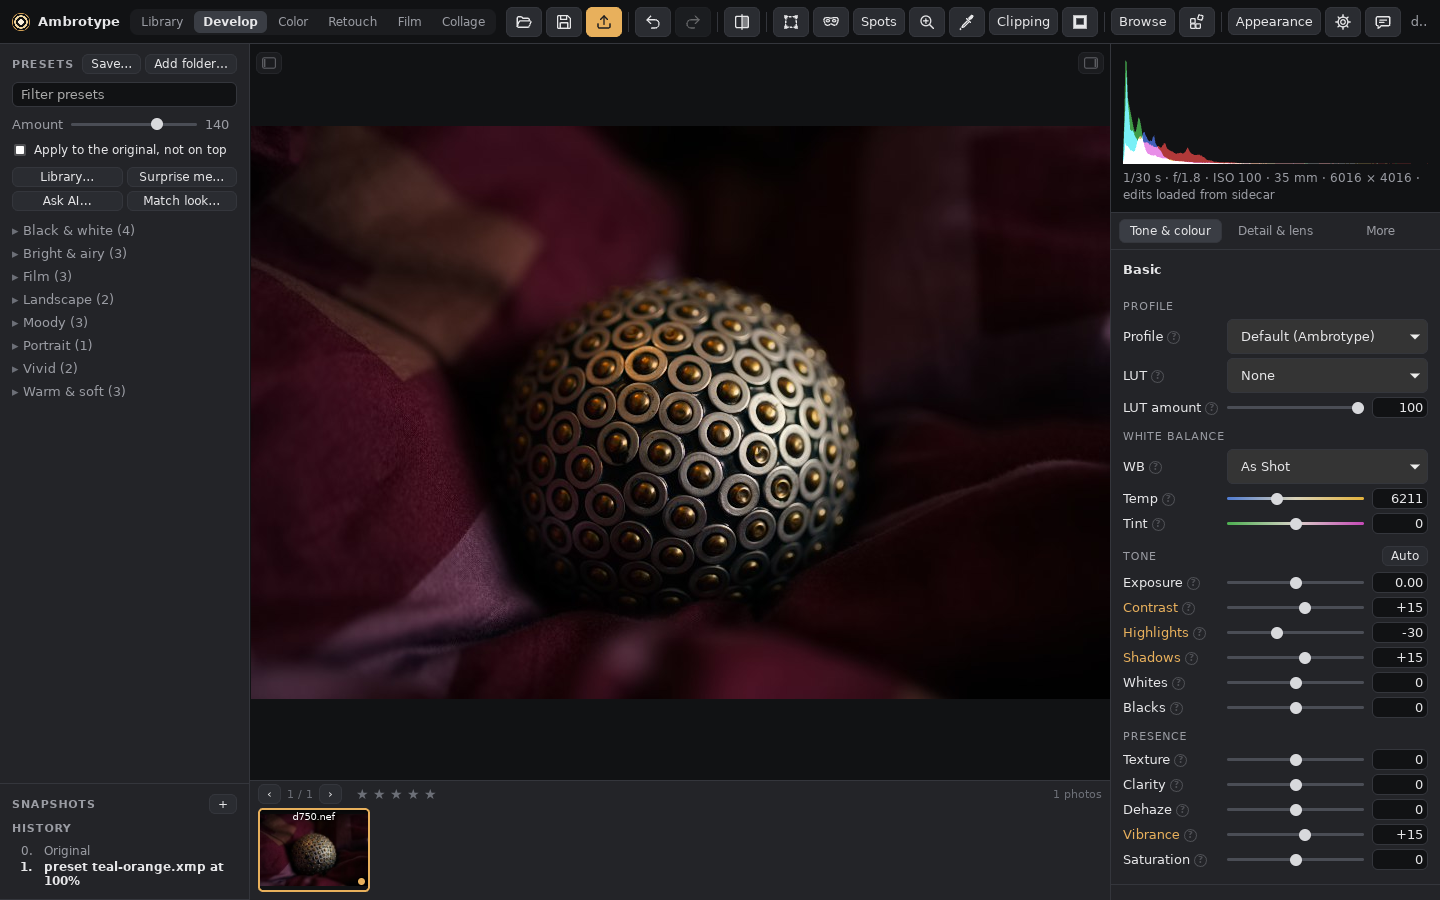
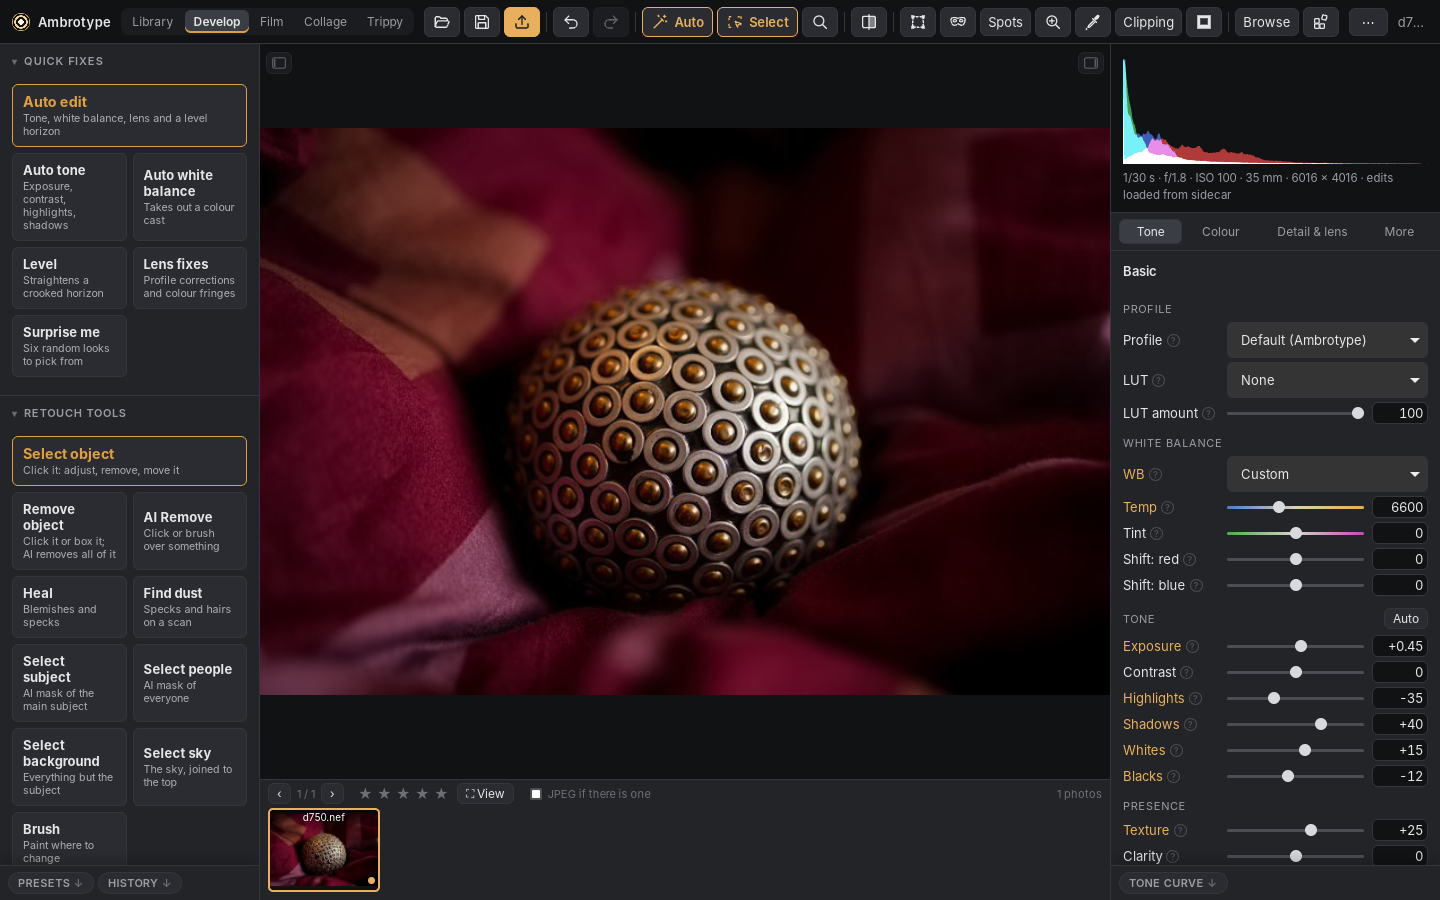
editor: side columns scroll as one, with sticky headings and a foot strip
History had slipped below Develop's tool tiles, out of sight, and the
lines to drag between blocks were invisible until hovered. Now a column
scrolls as one: a block's heading stays at the top while you're in it
and folds the block when clicked (every block, remembered), and a strip
at the column's foot names the blocks further down (History, Presets,
...; four by name, then "+N"), a click scrolls there. The drag lines
are gone. A smoke step checks History is named and reachable.

README screenshots retaken: the editor and the eight layout and theme
pairs, on the same CC0 sample photo.

Claude-Session: https://claude.ai/code/session_01RRHK1b1iPhduh9Qc2Hzt85

diff --git a/crates/amb-gui/ui/looks/columns.js b/crates/amb-gui/ui/looks/columns.js
@@ -114,53 +114,85 @@ function applySideCollapse() {
   addColumnGrips(shown);
 }
 
-// Section heights in a column, set by dragging the line between two
-// sections; remembered on this computer. The presets list fills what's left.
-const sectionHeights = (() => {
-  return store.get("section-heights") ?? {};
-})();
+// One scroll per column. A block's heading sticks at the top while you're in
+// it and folds the block when clicked (remembered); the blocks below the
+// fold are named in a strip at the column's foot, a click scrolls there.
+const columnWatch = new WeakMap();
 
-function addSectionDividers(col) {
-  const sections = [...col.children].filter((el) => el.classList.contains("side-section"));
-  for (const s of sections) {
-    const h = sectionHeights[s.id];
-    s.style.height = h && !s.classList.contains("presets-block") ? `${h}px` : "";
-    s.classList.toggle("sized", Boolean(s.style.height));
+function wireColumnBlocks(col) {
+  for (const s of col.querySelectorAll(":scope > .side-section")) foldableBlock(s);
+  const strip = Object.assign(document.createElement("nav"), { className: "col-strip", ariaLabel: "Further down this column" });
+  col.append(strip);
+  let w = columnWatch.get(col);
+  if (!w) {
+    let queued = false;
+    const update = () => {
+      if (queued) return;
+      queued = true;
+      requestAnimationFrame(() => {
+        queued = false;
+        updateColumnStrip(col);
+      });
+    };
+    w = { update, sizes: new ResizeObserver(update) };
+    columnWatch.set(col, w);
+    col.addEventListener("scroll", update, { passive: true });
   }
-  for (let i = 1; i < sections.length; i++) {
-    const above = sections[i - 1];
-    const below = sections[i];
-    const grip = Object.assign(document.createElement("div"), { className: "section-resizer", title: "Drag to resize; double-click to reset" });
-    below.before(grip);
-    // Resize the section that doesn't fill the spare height.
-    const target = below.classList.contains("presets-block") ? above : below;
-    const sign = target === above ? 1 : -1;
-    grip.addEventListener("pointerdown", (e) => {
-      if (document.body.classList.contains("editing")) return;
-      e.preventDefault();
-      grip.setPointerCapture(e.pointerId);
-      const y0 = e.clientY;
-      const h0 = target.getBoundingClientRect().height;
-      const move = (ev) => {
-        const h = Math.max(40, Math.round(h0 + sign * (ev.clientY - y0)));
-        target.style.height = `${h}px`;
-        target.classList.add("sized");
-        sectionHeights[target.id] = h;
-      };
-      const up = () => {
-        grip.removeEventListener("pointermove", move);
-        store.set("section-heights", sectionHeights);
-      };
-      grip.addEventListener("pointermove", move);
-      grip.addEventListener("pointerup", up, { once: true });
-    });
-    grip.addEventListener("dblclick", () => {
-      delete sectionHeights[target.id];
-      target.style.height = "";
-      target.classList.remove("sized");
-      store.set("section-heights", sectionHeights);
-    });
+  w.sizes.disconnect();
+  w.sizes.observe(col);
+  for (const el of columnBlocks(col)) w.sizes.observe(el);
+  w.update();
+}
+
+// A column's blocks: its sections and panels.
+const columnBlocks = (col) => [...col.children].filter((el) => el.matches(".side-section, details.panel"));
+const blockName = (el) => el.dataset.label ?? el.querySelector(":scope > .side-head h2, :scope > summary > span")?.textContent.trim() ?? "";
+
+function foldableBlock(s) {
+  const h = s.querySelector(":scope > .side-head h2");
+  if (!h || !s.id) return;
+  const key = `amb.fold.${s.id.replace(/^block-/, "")}`;
+  if (!h.querySelector(".fold-head")) {
+    const head = Object.assign(document.createElement("button"), { type: "button", className: "fold-head", title: "Fold or unfold" });
+    head.append(...h.childNodes);
+    h.replaceChildren(head);
+    head.addEventListener("click", () => foldBlock(s, !s.classList.contains("folded")));
   }
+  foldBlock(s, store.text(key) === "1", false);
+}
+
+function foldBlock(s, folded, remember = true) {
+  s.classList.toggle("folded", folded);
+  s.querySelector(".fold-head")?.setAttribute("aria-expanded", String(!folded));
+  if (remember) store.setText(`amb.fold.${s.id.replace(/^block-/, "")}`, folded ? "1" : "0");
+}
+
+function updateColumnStrip(col) {
+  const strip = col.querySelector(":scope > .col-strip");
+  if (!strip) return;
+  const tabs = col.querySelector(":scope > .column-tabs");
+  col.style.setProperty("--col-tabs-h", `${tabs?.offsetHeight ?? 0}px`);
+  const box = col.getBoundingClientRect();
+  const foot = box.bottom - (strip.childElementCount ? strip.offsetHeight : 0);
+  const below = columnBlocks(col).filter((el) => el.offsetParent && el.getBoundingClientRect().top >= foot - 8);
+  const names = below.map(blockName).filter(Boolean);
+  if (strip.dataset.names === names.join("\n")) return;
+  strip.dataset.names = names.join("\n");
+  // A few by name, then how many more (a click goes to the next of them).
+  const named = below.filter((el) => blockName(el));
+  const shown = named.length > 5 ? named.slice(0, 4) : named;
+  const chips = shown.map((el) => [el, blockName(el)]);
+  if (named.length > shown.length) chips.push([named[shown.length], `+${named.length - shown.length}`]);
+  strip.replaceChildren(...chips.map(([el, text]) => {
+    const b = Object.assign(document.createElement("button"), { type: "button", className: "col-chip", textContent: text, title: `Scroll down to ${blockName(el)}` });
+    b.addEventListener("click", () => {
+      if (el.classList.contains("folded")) foldBlock(el, false);
+      if (el.matches("details")) el.open = true;
+      const top = col.scrollTop + el.getBoundingClientRect().top - col.getBoundingClientRect().top - (tabs?.offsetHeight ?? 0);
+      col.scrollTo({ top, behavior: "smooth" });
+    });
+    return b;
+  }));
 }
 
 function toggleColumn(side) {

diff --git a/crates/amb-gui/ui/style.css b/crates/amb-gui/ui/style.css
@@ -57,10 +57,10 @@ button.primary:hover:not(:disabled) { background: var(--accent); filter: brightn
 .camsim-controls label { display: grid; grid-template-columns: 7em 1fr 5.5em; align-items: center; gap: 6px; }
 .camsim-controls label.inline-check { display: flex; }
 /* Tool blocks: a task's own tools as big tiles, a name and what it does. */
-.tool-block .fold-head { all: unset; cursor: pointer; display: inline-flex; align-items: center; gap: 6px; }
-.tool-block .fold-head::before { content: "▾"; font-size: 10px; opacity: .6; }
-.tool-block.folded .fold-head::before { content: "▸"; }
-.tool-block.folded .tool-tiles { display: none; }
+.side-section .fold-head { all: unset; cursor: pointer; display: inline-flex; align-items: center; gap: 6px; }
+.side-section .fold-head::before { content: "▾"; font-size: 10px; opacity: .6; }
+.side-section.folded .fold-head::before { content: "▸"; }
+.side-section.folded > :not(.side-head:first-child) { display: none; }
 .tool-tiles { display: grid; grid-template-columns: repeat(2, minmax(0, 1fr)); grid-auto-rows: auto; gap: 6px; padding: 4px 0 8px; }
 /* Block text, not a flex column: WebKit on macOS measured a flex <button>
    a line short, so the last line of a hint was cut off. */
@@ -137,7 +137,7 @@ input[type=search], input[type=number], select {
 .right { border-left: 1px solid var(--line); grid-column: 3; grid-row: 1 / 3; }
 .side-section { padding: 10px 12px; border-bottom: 1px solid var(--line); display: flex; flex-direction: column; gap: 8px; min-height: 0; }
 /* Presets fill the spare height of their column (and scroll inside it). */
-.column > .presets-block { flex: 1 0 220px; overflow-y: auto; }
+.column > .presets-block { flex: 1 0 auto; }
 .side-head { display: flex; flex-wrap: wrap; align-items: center; justify-content: space-between; gap: 4px; }
 .side-actions button { white-space: nowrap; }
 .amount { display: grid; grid-template-columns: auto minmax(0, 1fr) 32px; align-items: center; gap: 8px; color: var(--muted); }
@@ -153,7 +153,6 @@ input[type=search], input[type=number], select {
 .preset-star.on { color: var(--accent); }
 .preset { display: block; width: 100%; text-align: left; background: none; border: 0; padding: 3px 4px 3px 16px; border-radius: 4px; color: var(--text); }
 .preset:hover { background: var(--panel-2); }
-.history { max-height: 40%; }
 .snapshot-list { list-style: none; margin: 0; padding: 0; overflow-y: auto; max-height: 120px; flex-shrink: 0; font-size: 12px; }
 .snapshot-list:empty { display: none; }
 .snapshot-list li { display: flex; align-items: center; gap: 2px; border-radius: 3px; color: var(--muted); }
@@ -163,7 +162,7 @@ input[type=search], input[type=number], select {
 .snapshot-list .snap-act { visibility: hidden; padding: 0 4px; border: 0; background: none; color: var(--muted); font-size: 12px; line-height: 16px; }
 .snapshot-list li:hover .snap-act, .snapshot-list .snap-act:focus { visibility: visible; }
 .snapshot-list .snap-act:hover { color: var(--text); }
-.history-list { margin: 0; padding-left: 28px; overflow-y: auto; color: var(--muted); font-size: 12px; }
+.history-list { margin: 0; padding-left: 28px; max-height: 24em; overflow-y: auto; color: var(--muted); font-size: 12px; }
 .history-list li { padding: 1px 4px; border-radius: 3px; cursor: pointer; }
 .history-list li:hover { background: var(--tab-active); color: var(--text); }
 .history-list li.current { color: var(--text); font-weight: 600; cursor: default; }
@@ -1111,9 +1110,17 @@ button.tool-icon.active { color: var(--accent); }
 .fold.left { left: 6px; border-radius: var(--radius); }
 .fold.right { right: 6px; border-radius: var(--radius); }
 .fold[hidden] { display: none; }
-.section-resizer { flex: none; height: 6px; margin: -3px 0; position: relative; z-index: 2; cursor: row-resize; }
-.section-resizer:hover, .section-resizer:active { background: var(--accent); opacity: .5; }
-.side-section.sized { flex: none; overflow-y: auto; }
+/* One scroll per column: a block's heading sticks at the top while you're in
+   it (under the column's tabs), and the blocks further down are named in a
+   strip at the foot (columns.js). */
+.column > .side-section > .side-head:first-child { position: sticky; top: var(--col-tabs-h, 0px); z-index: 3; margin: -10px -12px 0; padding: 10px 12px 4px; background: var(--panel); }
+.column > details.panel > summary { position: sticky; top: var(--col-tabs-h, 0px); z-index: 3; background: var(--panel); }
+.col-strip { position: sticky; bottom: 0; z-index: 4; margin-top: auto; display: flex; flex-wrap: wrap; gap: 4px; padding: 6px 8px; background: var(--panel); border-top: 1px solid var(--line); box-shadow: 0 -6px 12px rgba(0, 0, 0, .18); }
+.col-strip:empty { display: none; }
+.col-chip { padding: 3px 9px; border: 1px solid var(--line); border-radius: 999px; background: var(--panel-2); color: var(--muted); font-size: 11px; font-weight: 600; letter-spacing: .04em; text-transform: uppercase; }
+.col-chip::after { content: " ↓"; opacity: .6; }
+.col-chip:hover { color: var(--text); border-color: var(--accent); }
+body.editing .col-strip { display: none; }
 /* The presets block's tools: a tidy grid of small buttons. */
 .preset-tools { display: grid; grid-template-columns: 1fr 1fr; gap: 4px; }
 .preset-tools button { width: 100%; }

diff --git a/crates/amb-gui/tests/ui/smoke.js b/crates/amb-gui/tests/ui/smoke.js
@@ -60,7 +60,7 @@ await t.step("Auto edit: the big button edits the whole photo, as one undo step"
 
 await t.step("tabs: Develop has Quick fixes and the Retouch tools, a Colour tab, and folds; no Color or Retouch tab", async () => {
   await switchTask("develop");
-  for (const name of ["quick", "retouch"]) if ($(`block-${name}`).classList.contains("folded")) foldToolBlock(name, false);
+  for (const name of ["quick", "retouch"]) if ($(`block-${name}`).classList.contains("folded")) foldBlock($(`block-${name}`), false);
   await t.until("Quick fixes and Retouch tools", () => t.visible("#block-quick") && t.visible("#block-retouch"));
   t.expect(document.body.dataset.task === "develop", `accent ${document.body.dataset.task}`);
   t.expect(!TASKS.some((x) => ["color", "retouch"].includes(x.id)) && TASKS.map((x) => x.id).slice(0, 4).join() === "library,develop,film,collage", TASKS.map((x) => x.id).join());
@@ -68,6 +68,21 @@ await t.step("tabs: Develop has Quick fixes and the Retouch tools, a Colour tab,
   $("block-retouch").querySelector(".fold-head").click();
   t.expect(!t.visible("#tools-retouch") && localStorage.getItem("amb.fold.retouch") === "1", "folded");
   $("block-retouch").querySelector(".fold-head").click();
+  // History sits below the tool blocks: the column's foot names it, and a
+  // click scrolls to it.
+  const col = $("block-history").parentElement;
+  col.scrollTop = 0;
+  const chip = () => [...col.querySelectorAll(".col-strip .col-chip")].find((c) => c.textContent === "History");
+  await t.until("History named at the column's foot", () => chip());
+  chip().click();
+  const inView = () => {
+    const h = $("block-history").getBoundingClientRect();
+    const c = col.getBoundingClientRect();
+    return h.top >= c.top - 1 && h.top < c.bottom - 40;
+  };
+  await t.until("History scrolled into view", inView);
+  await t.until("no longer named below", () => !chip());
+  col.scrollTop = 0;
   t.expect(t.visible("#tools-retouch"), "unfolded");
   const tiles = [...document.querySelectorAll("#tools-retouch .tool-tile")].map((b) => b.dataset.tool);
   t.expect(["select", "object", "remove", "subject", "people", "background", "sky", "dust"].every((x) => tiles.includes(x)), tiles.join(", "));

diff --git a/crates/amb-gui/ui/tools/toolblocks.js b/crates/amb-gui/ui/tools/toolblocks.js
@@ -65,28 +65,7 @@ const TOOL_BLOCKS = {
   ],
 };
 
-// A tool block folds to its heading (a click on it), remembered per block,
-// so Develop's left column can hold Quick fixes and the Retouch tools.
-function foldToolBlock(name, folded) {
-  const block = $(`block-${name}`);
-  if (!block) return;
-  block.classList.toggle("folded", folded);
-  block.querySelector(".fold-head")?.setAttribute("aria-expanded", String(!folded));
-  store.setText(`amb.fold.${name}`, folded ? "1" : "0");
-}
-
 function wireToolBlocks() {
-  for (const name of ["quick", "retouch"]) {
-    const h = $(`block-${name}`)?.querySelector(".side-head h2");
-    if (!h) continue;
-    const head = Object.assign(document.createElement("button"), { type: "button", className: "fold-head", title: "Fold or unfold" });
-    head.append(...h.childNodes);
-    h.replaceChildren(head);
-    head.addEventListener("click", () => foldToolBlock(name, !$(`block-${name}`).classList.contains("folded")));
-    let folded = false;
-    folded = store.text(`amb.fold.${name}`) === "1";
-    foldToolBlock(name, folded);
-  }
   for (const [name, tools] of Object.entries(TOOL_BLOCKS)) {
     const box = $(`tools-${name}`);
     if (!box) continue;

diff --git a/crates/amb-gui/ui/core/tasks.js b/crates/amb-gui/ui/core/tasks.js
@@ -65,7 +65,7 @@ async function runTaskTool(tool) {
 function renderTaskTools() {
   const t = TASKS.find((x) => x.id === currentTask());
   const tools = t?.tools ?? [];
-  $("tools-title").textContent = t?.label ? `${t.label} tools` : "Tools";
+  ($("tools-title").querySelector(".fold-head") ?? $("tools-title")).textContent = t?.label ? `${t.label} tools` : "Tools";
   $("tools-task").replaceChildren(...tools.map((tool, i) => {
     const b = Object.assign(document.createElement("button"), { type: "button", className: `tool-tile${tool.big ? " big" : ""}`, title: tool.hint ?? "" });
     b.dataset.tool = String(i);

diff --git a/crates/amb-gui/ui/index.html b/crates/amb-gui/ui/index.html
@@ -109,7 +109,7 @@
         <div class="side-head"><h2 id="tools-title">Tools</h2></div>
         <div id="tools-task" class="tool-tiles"></div>
       </section>
-      <section class="side-section history" id="block-history">
+      <section class="side-section history" id="block-history" data-label="History">
         <div class="side-head">
           <h2>Snapshots</h2>
           <span class="side-actions"><button type="button" id="snapshot-add" class="small" title="Keep the edit as it is now under a name, to come back to (kept in the photo's .xmp)" disabled>+</button></span>

diff --git a/crates/amb-gui/ui/looks/layout.js b/crates/amb-gui/ui/looks/layout.js
@@ -113,7 +113,7 @@ function applyLayout(layout) {
   for (const side of ["left", "right"]) if (widths[side] && mine[side]) widths[side] = mine[side];
   ui.sideWidths = widths;
   applySideCollapse();
-  for (const side of ["left", "right"]) addSectionDividers($(`col-${side}`));
+  for (const side of ["left", "right"]) wireColumnBlocks($(`col-${side}`));
 
   // The crop panel goes to the top of the column with the most panels.
   const host = ["left", "right"]

diff --git a/docs/FEATURES.md b/docs/FEATURES.md
@@ -11,7 +11,7 @@ Ctrl is ⌘ on a Mac. "Right-click" means on the photo, or on a thumbnail in the
 - **I'm new to editing** → the empty window's **Try a sample photo** (a nine-step edit to step through in History) and **Watch an edit** (a cursor replays it). On your own photo: Help → **Watch an edit on this photo** (Auto edit's changes made one slider at a time, each a History step). Help → **Learn** (F1) has short lessons, Help → **Photography basics** (Shift+F1) explains exposure, tones and colour on your own photo, and every setting has a **?** to hover or click.
 - **Learn what shutter speed, aperture, ISO and focal length do** → Help → **Camera simulator**: change them on a drawn scene and see the blur, depth of field, grain and zoom, with a line on what each did; **Auto exposure** sets the shutter.
 - **Open a photo or a folder** → **Open a photo** (Ctrl+O), **Open a folder** (Ctrl+Shift+O), or drop it on the window. Raws (NEF, CR2/CR3, ARW, RAF, DNG, …), JPEG, PNG, TIFF and WebP.
-- **Switch between library and editing** → **Library Grid** (G), or the task bar at the top: **Library**, **Develop**, **Film**, **Collage**, **Trippy** (Ctrl+Alt+1–5). Develop opens on **Quick fixes** and the **Retouch tools** (a click on a heading folds it), with its panels in four tabs on the right: Tone, **Colour** (grading wheels and mixer), Detail & lens, More. Collage opens the collage maker.
+- **Switch between library and editing** → **Library Grid** (G), or the task bar at the top: **Library**, **Develop**, **Film**, **Collage**, **Trippy** (Ctrl+Alt+1–5). Develop opens on **Quick fixes** and the **Retouch tools**, with Presets and History below them (a click on any heading folds it; the column's foot names what's further down, a click goes there), with its panels in four tabs on the right: Tone, **Colour** (grading wheels and mixer), Detail & lens, More. Collage opens the collage maker.
 - **Find a command or setting I can't see** → **Search Everything** (Ctrl+K, or the magnifier in the toolbar): type its name, or a setting and a number ("exposure 0.7").
 - **See everything the app can do** → Help → **What Ambrotype Can Do** (this list, with a filter).
 - **Tips, or no tips** → a tip's **Don't show tips** (or **Not now** three times in a row) turns them off; **Settings** (Ctrl+,) → General: Tips while waiting, Tips in menus and empty boxes (both on) turns them on again.

diff --git a/docs/WHATS-NEXT.md b/docs/WHATS-NEXT.md
@@ -31,6 +31,7 @@ A short running list, kept up to date as work lands. Newest decisions first. The
 
 ## Recently done
 
+- 2026-11-10: side columns scroll as one: each block's heading stays at the top while you're in it and folds the block when clicked, and the column's foot names the blocks further down (History, Presets, …), a click goes there. The drag lines between blocks are gone; History had slipped out of sight below Develop's tool tiles. README screenshots retaken
 - 2026-11-10: rotate and flip a photo: **Rotate left** (Ctrl+[), **Rotate right** (Ctrl+]) and **Flip horizontal** in the Photo menu, Ctrl+K or the keys, for the open photo, the library's selection or the photo in the full-screen viewer; `amb tag --rotate left|right|180 --flip horizontal`. Written where Lightroom keeps it (`tiff:Orientation` in the sidecar); crops, masks and spots stay put on the photo, so they turn with it. Folding the side columns moved to F7 and F8, as in Lightroom
 - 2026-11-09: the cleanup's third phase ([cleanup.md](cleanup.md)): the operations that render photos are their own crate, `amb-ops`, so `amb-library` no longer needs the GPU crate; the editor's 18 saved settings are one `Config` behind one lock (`AppState::prefs`), so a new setting is one field; the UI's 78 scripts are in folders by part; and `NEXT.md`'s Built list became links to `FEATURES.md` and `ARCHITECTURE.md`. Found on the way: "Save to…" for a preset took two locks in the opposite order to saving the settings, which could freeze the editor
 - 2026-11-09: the cleanup's first two phases ([cleanup.md](cleanup.md)), each step by a smaller model and reviewed: one `smoothstep` and one `file_stamp`; the UI's shared helpers in `core.js`, which loads first, and its storage through `store`; 15 big files split along their sections (the editor's `main.rs`, `session.rs`, photo and library commands, `looks.rs` and `hub.rs`; the protocol's `state.rs`; the engine's `mask.rs` and `negative.rs`; six UI scripts). Nothing the app does changed. Found on the way: two quick keys in the viewer could show old values (info changes now go one at a time), and three tests that failed now and then

diff --git a/docs/ARCHITECTURE.md b/docs/ARCHITECTURE.md
@@ -269,6 +269,7 @@ Speed today: a 24 MP raw with a typical edit renders in about 3.5 s on a 4-core 
     - `ambrotype --check-look FILE...` validates layout and theme files (what AI assistants use, [ai/ui-layouts.md](ai/ui-layouts.md)).
     - Toolbar icons are our own line drawings (`ui/core/icons.js`); a layout with `"toolbar_style": "words"` (Beginner) shows words on every button.
     - Side columns are resized by dragging their inner edge: widths are kept per layout in the page's local storage (`colWidths` in `ui/looks/columns.js`).
+    - A column scrolls as one: block headings stick and fold (`amb.fold.<block>`), and a strip at its foot names the blocks below the fold (`wireColumnBlocks` in `ui/looks/columns.js`).
     - A layout with `"chrome": "hidden"` (Minimalism) hides the bars and slides the columns in over the photo from the window's edges (`applyChrome` in `ui/looks/columns.js`).
   - **slideshow:** `ui/library/slideshow.js`. Two image layers on black; each photo's large edited thumbnail (`bigImage`, cached with the library's), the next one fetched while the current shows; CSS classes give the change effect. Full screen through the `window_fullscreen` command
   - **before / after split:** `ui/develop/split.js`. The "before" half keeps the crop, geometry and lens corrections, so both halves line up.

diff --git a/README.md b/README.md
@@ -2,7 +2,7 @@
 
 A free, open-source photo editor and organiser for Windows, macOS and Linux, in the spirit of Adobe Lightroom®. It opens your raws, edits them without touching the originals, and applies the Lightroom presets you already bought, faithfully.
 
-![The Ambrotype editor with a sample preset applied](docs/images/editor.png)
+![The Ambrotype editor: the sample photo with its edit, Develop's quick fixes and tools on the left](docs/images/editor.png)
 
 <sub>Photo: a Nikon D750 sample raw from [raw.pixls.us](https://raw.pixls.us/), shared under CC0 (public domain).</sub>
 
